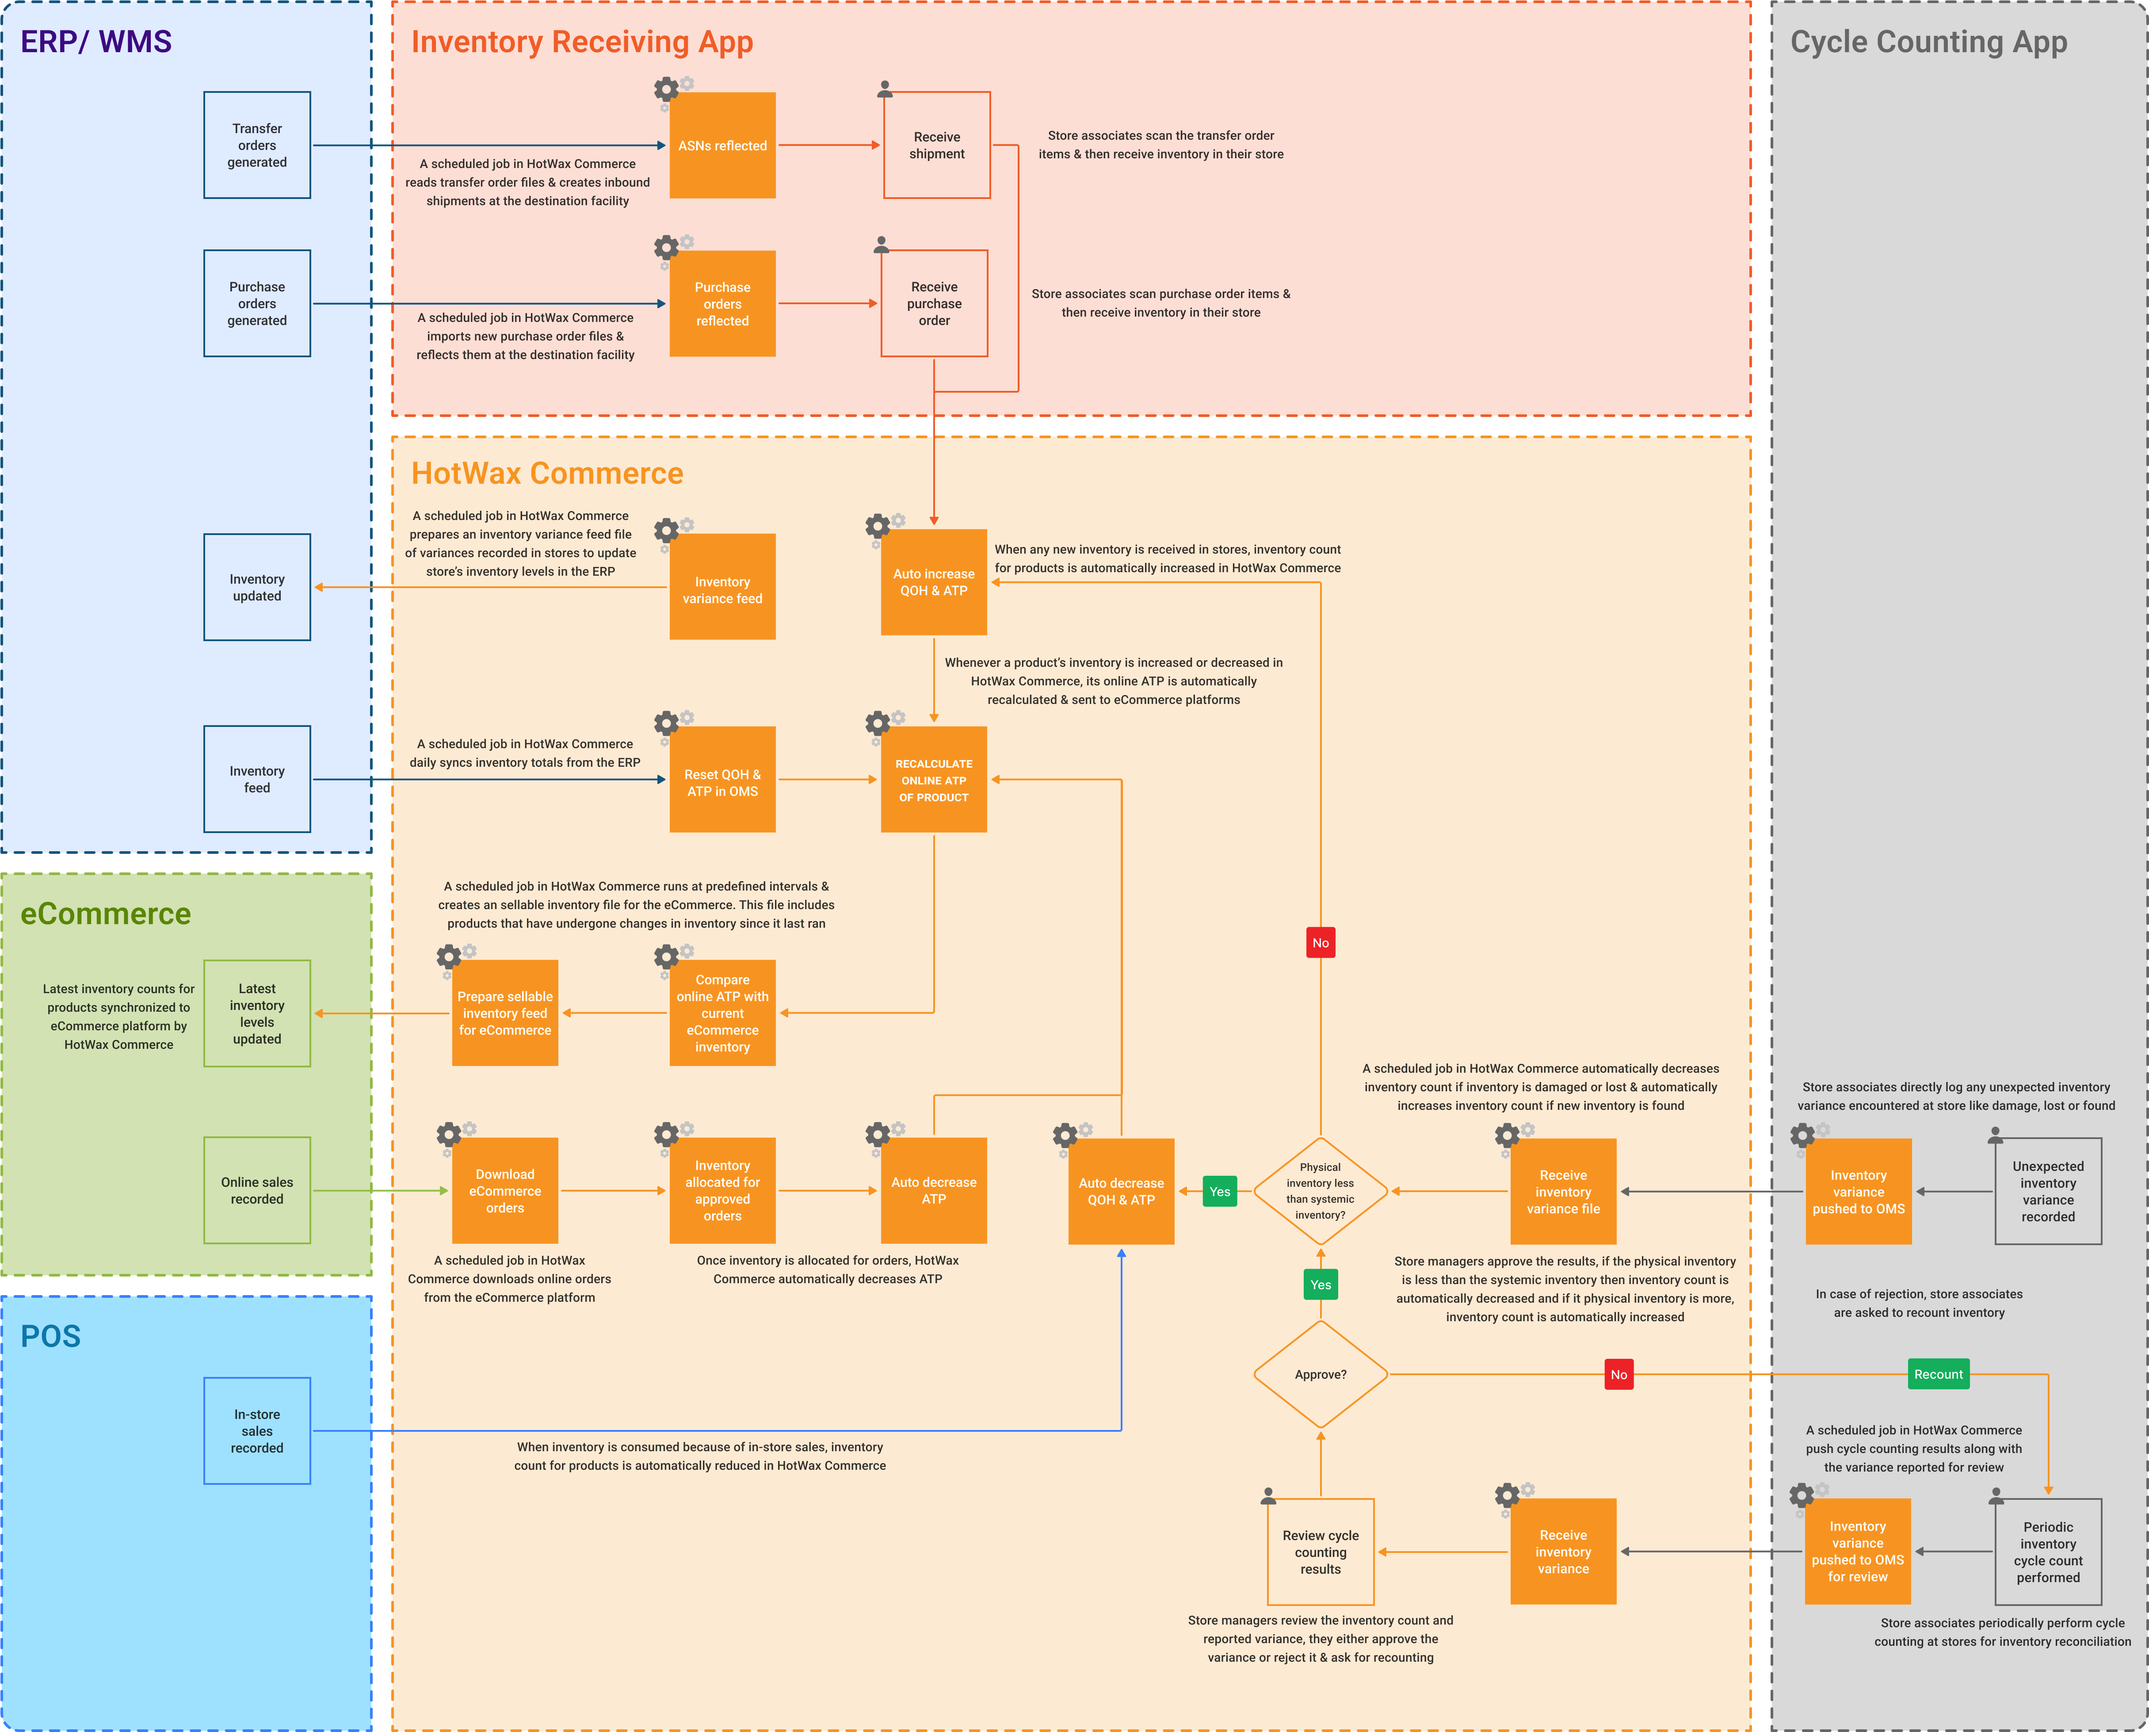
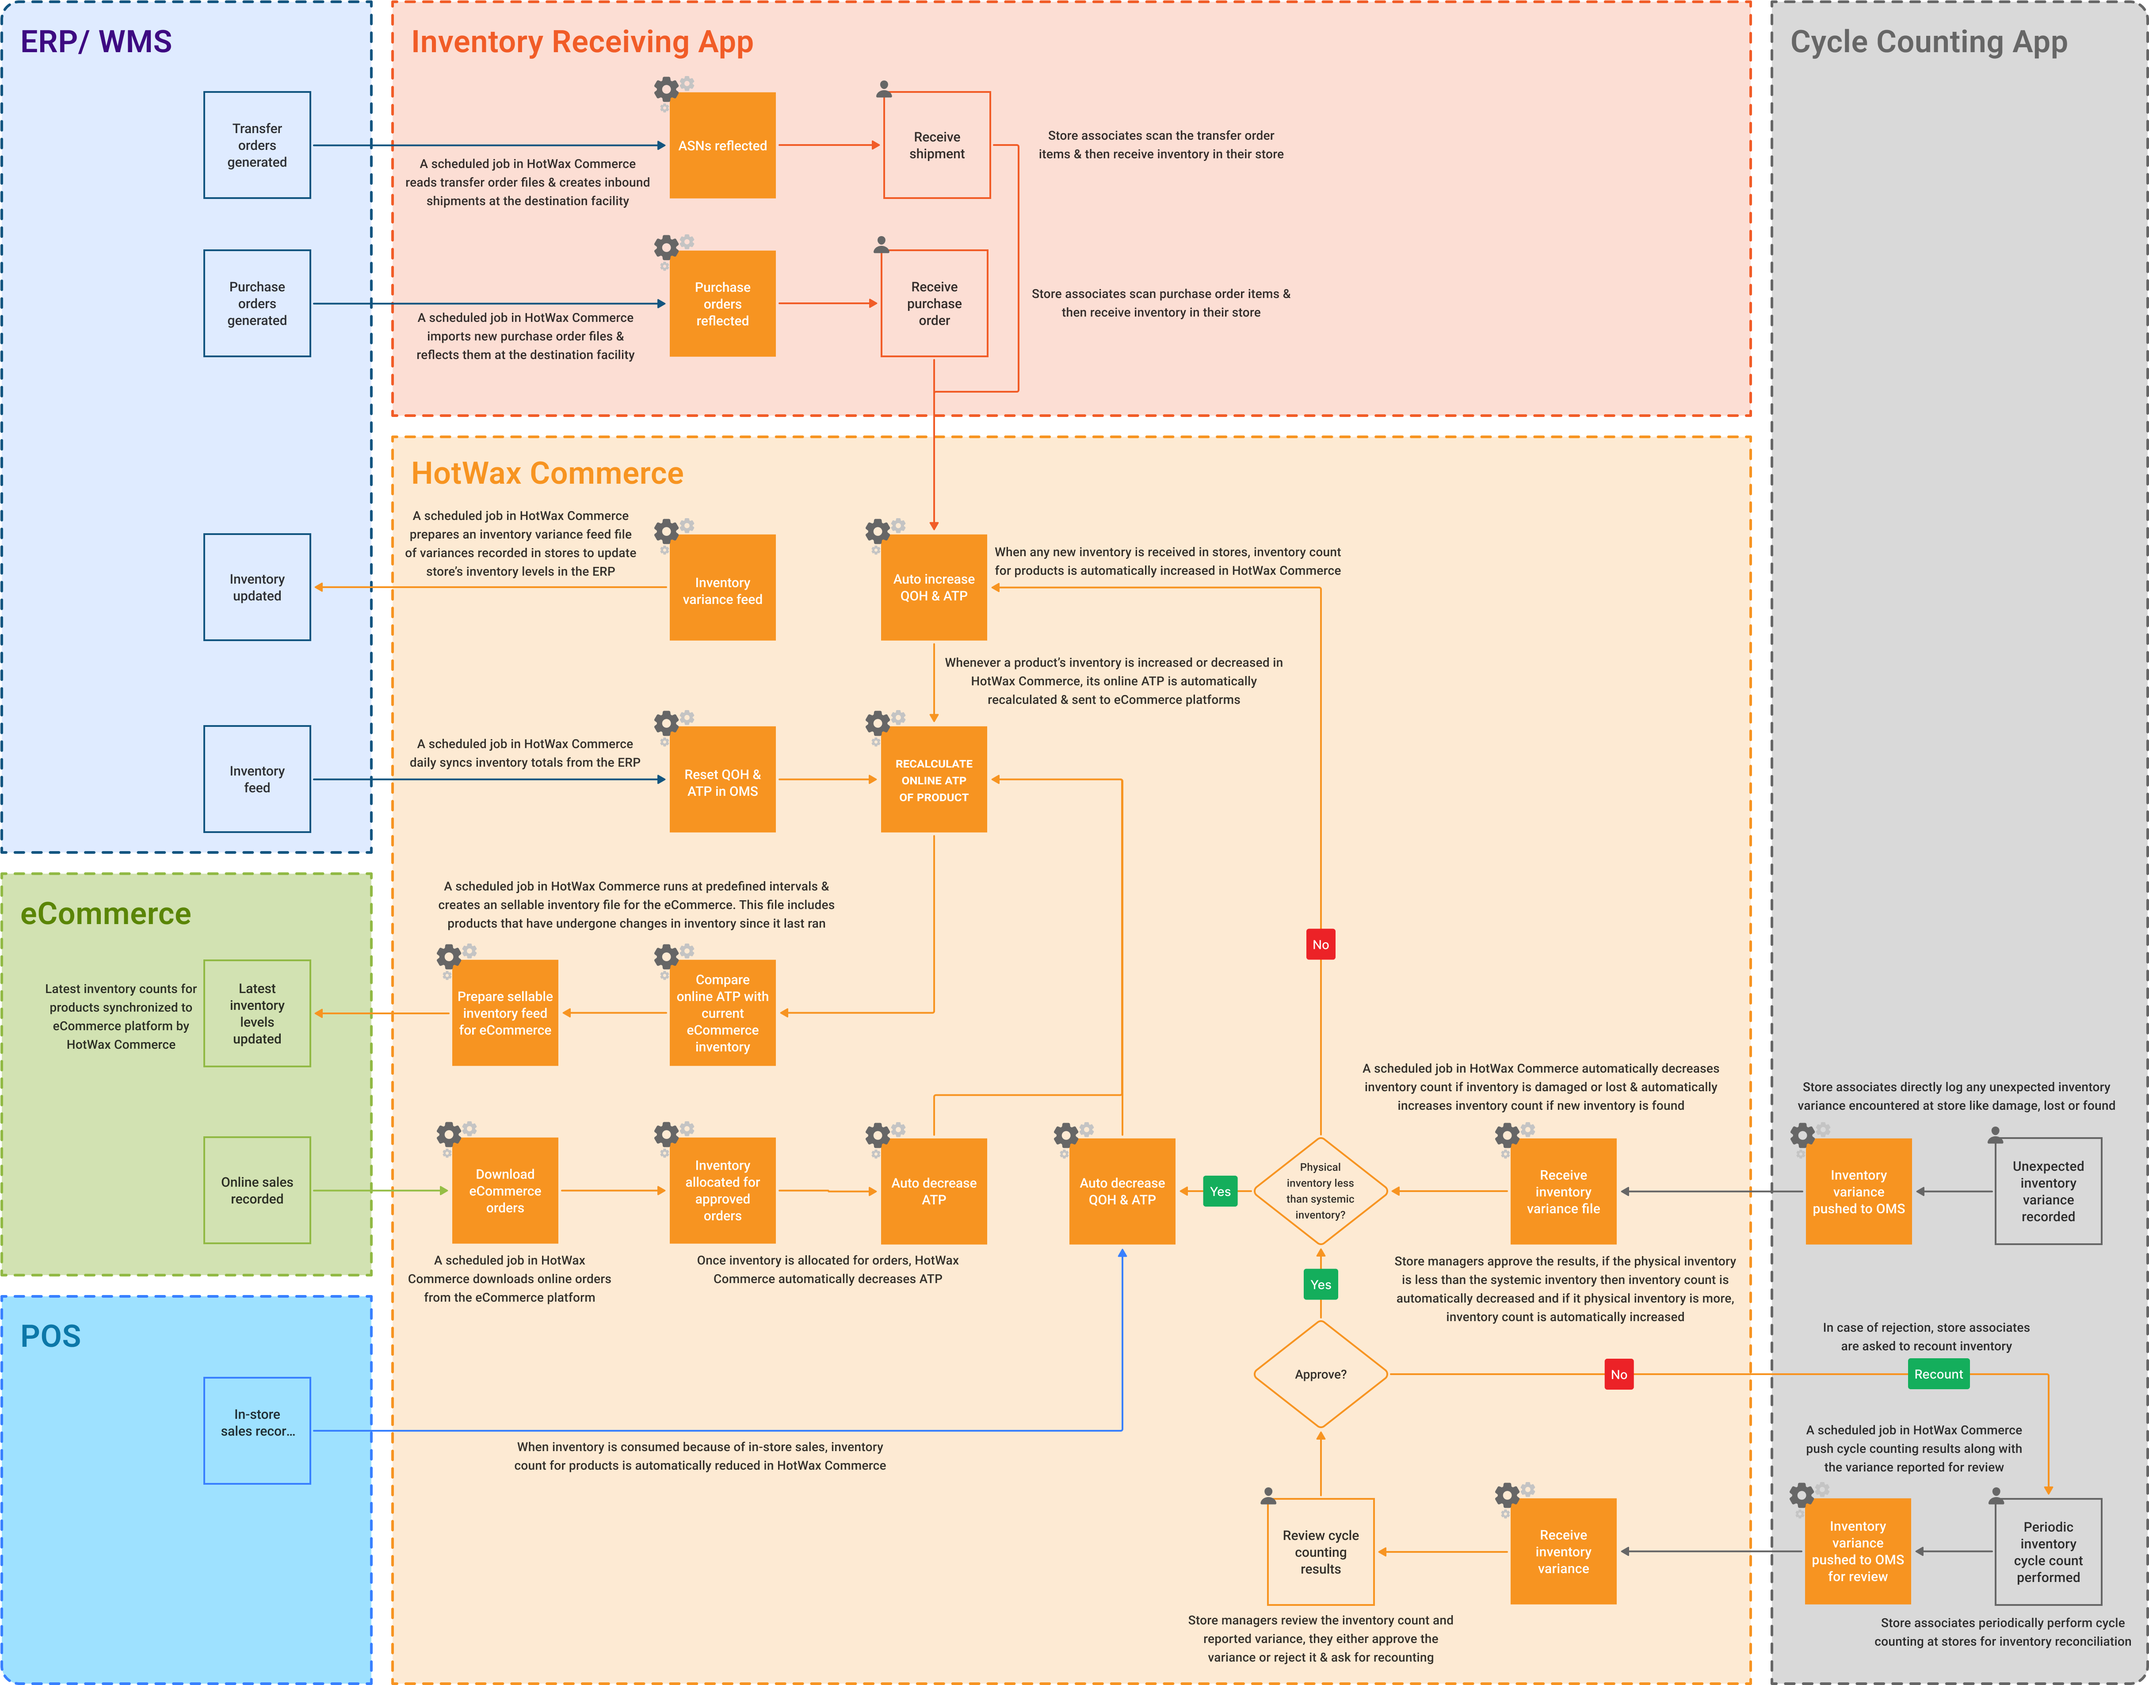
GITBOOK-206: updated lifecycle images

diff --git a/user-manuals/business-process-models/inventorylifecycle.md b/user-manuals/business-process-models/inventorylifecycle.md
@@ -9,6 +9,8 @@ description: >-
 
 The inventory count of a product is regularly updated due to various factors such as customer purchases made both in-store and online, as well as the receipt of new inventory. These transactions are recorded across different systems. In the Inventory Lifecycle BPM, we've provided detailed insights into how these operational inventory transactions impact the sellable inventory count, that is, `Online ATP` of a product.
 
+<figure><img src="../.gitbook/assets/web returns bpm.png" alt=""><figcaption><p>Inventory lifecycle business process model</p></figcaption></figure>
+
 Before delving into the specifics of Inventory Lifecycle BPM, it's crucial to understand HotWax Commerce's role in maintaining inventory levels and calculating inventory availability. <mark style="color:orange;">**HotWax Commerce serves as the master of inventory availability**</mark>. Now, what exactly does this mean, and how does HotWax Commerce compute it? Let's see:
 
 In HotWax Commerce, you'll come across three inventory-related terms: **Quantity On Hand (QOH), Available To Promise (ATP), and Online ATP**
@@ -31,8 +33,6 @@ To calculate `Online ATP`, HotWax Commerce deducts inventory that is not availab
 HotWax Commerce integrates with ERP, POS, and WMS, to create a unified pool of inventory. After synchronizing inventory totals from all systems, HotWax Commerce calculates the `Online ATP` for eCommerce by subtracting any inventory set aside as safety stock, thresholds, orders in the brokering queue, and inventory at excluded facilities from the physical ATP. This makes HotWax Commerce the ultimate authority on inventory availability and prevents overcommitting on eCommerce platforms.
 
 **Now, let’s understand the breakdown of inventory transactions involved throughout the inventory lifecycle and their recording across various systems:**
-
-<figure><img src="../.gitbook/assets/inventory bpm.png" alt=""><figcaption><p>Inventory lifecycle business process model</p></figcaption></figure>
 
 ## Inventory transactions in ERP/WMS
 

diff --git a/user-manuals/business-process-models/exchanges-lifecycle/loopposexchangeslifecycle.md b/user-manuals/business-process-models/exchanges-lifecycle/loopposexchangeslifecycle.md
@@ -6,7 +6,7 @@ description: >-
 
 # In-store exchanges with Loop
 
-<figure><img src="../../.gitbook/assets/POS exchanges bpm.png" alt=""><figcaption><p>In-store exchanges lifecycle business process model</p></figcaption></figure>
+<figure><img src="../../.gitbook/assets/In-store exchanges loop bpm.png" alt=""><figcaption><p>In-store exchanges lifecycle business process model</p></figcaption></figure>
 
 The process of returning an item mirrors the steps previously discussed in the [In-Store Returns Lifecycle Business Process Model](../returns-lifecycle/loopposreturnslifecycle.md). More specifically, customers visiting the store location, store associates looking up the customer’s order in the Loop POS App, and initiating the return process remains the same.
 

diff --git a/user-manuals/business-process-models/returns-lifecycle/loopwebreturnslifecycle.md b/user-manuals/business-process-models/returns-lifecycle/loopwebreturnslifecycle.md
@@ -6,7 +6,7 @@ description: >-
 
 # Web returns with Loop
 
-<figure><img src="../../.gitbook/assets/returns bpm.png" alt=""><figcaption><p>Web returns lifecycle business process model</p></figcaption></figure>
+<figure><img src="../../.gitbook/assets/in-store returns Shopify POS bpm.png" alt=""><figcaption><p>Web returns lifecycle business process model</p></figcaption></figure>
 
 HotWax Commerce simply downloads completed returns for auditing purposes, ensuring reconciliation of returns in both Shopify and NetSuite. To explain the return lifecycle, we've taken Loop as the RMS, Shopify as eCommerce platform, and NetSuite as the ERP system, while HotWax Commerce serves as the OMS.
 

diff --git a/user-manuals/business-process-models/returns-lifecycle/shopifyposreturnslifecycle.md b/user-manuals/business-process-models/returns-lifecycle/shopifyposreturnslifecycle.md
@@ -6,7 +6,7 @@ description: >-
 
 # In-store returns with Shopify POS
 
-<figure><img src="../../.gitbook/assets/Shopify POS returns bpm.png" alt=""><figcaption><p>In-store returns lifecycle business process model</p></figcaption></figure>
+<figure><img src="../../.gitbook/assets/in-store returns Shopify POS bpm.png" alt=""><figcaption><p>In-store returns lifecycle business process model</p></figcaption></figure>
 
 Some of our Shopify customers use the Shopify POS App to accept in-store returns. The app lets them check all of their store's orders in a single view, whether they were placed online or in person, review its details, and perform a refund or exchange.
 

diff --git a/user-manuals/business-process-models/returns-lifecycle/loopposreturnslifecycle.md b/user-manuals/business-process-models/returns-lifecycle/loopposreturnslifecycle.md
@@ -6,7 +6,7 @@ description: >-
 
 # In-store returns with Loop
 
-<figure><img src="../../.gitbook/assets/POS returns bpm.png" alt=""><figcaption><p>In-store returns lifecycle business process model</p></figcaption></figure>
+<figure><img src="../../.gitbook/assets/in-store returns loop bpm.png" alt=""><figcaption><p>In-store returns lifecycle business process model</p></figcaption></figure>
 
 Customers who live near a brick-and-mortar store or those who prefer to get instant refunds opt for returning their purchases directly in-store.
 
